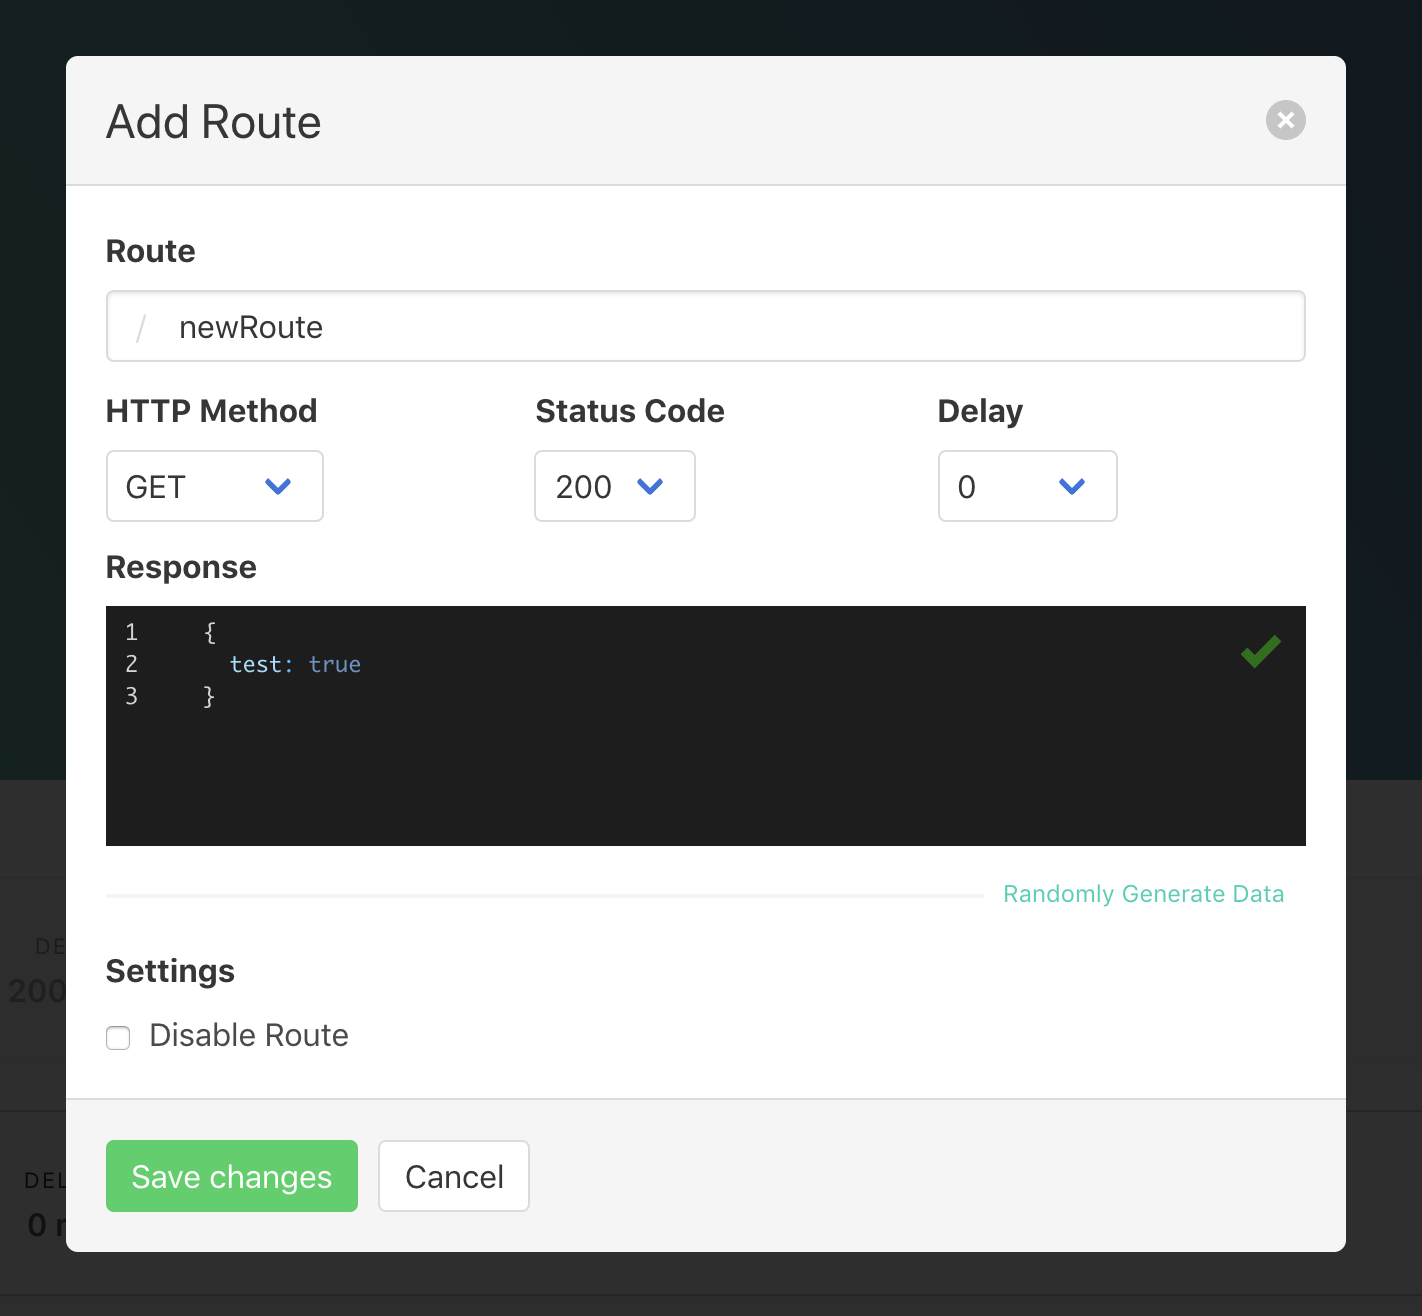
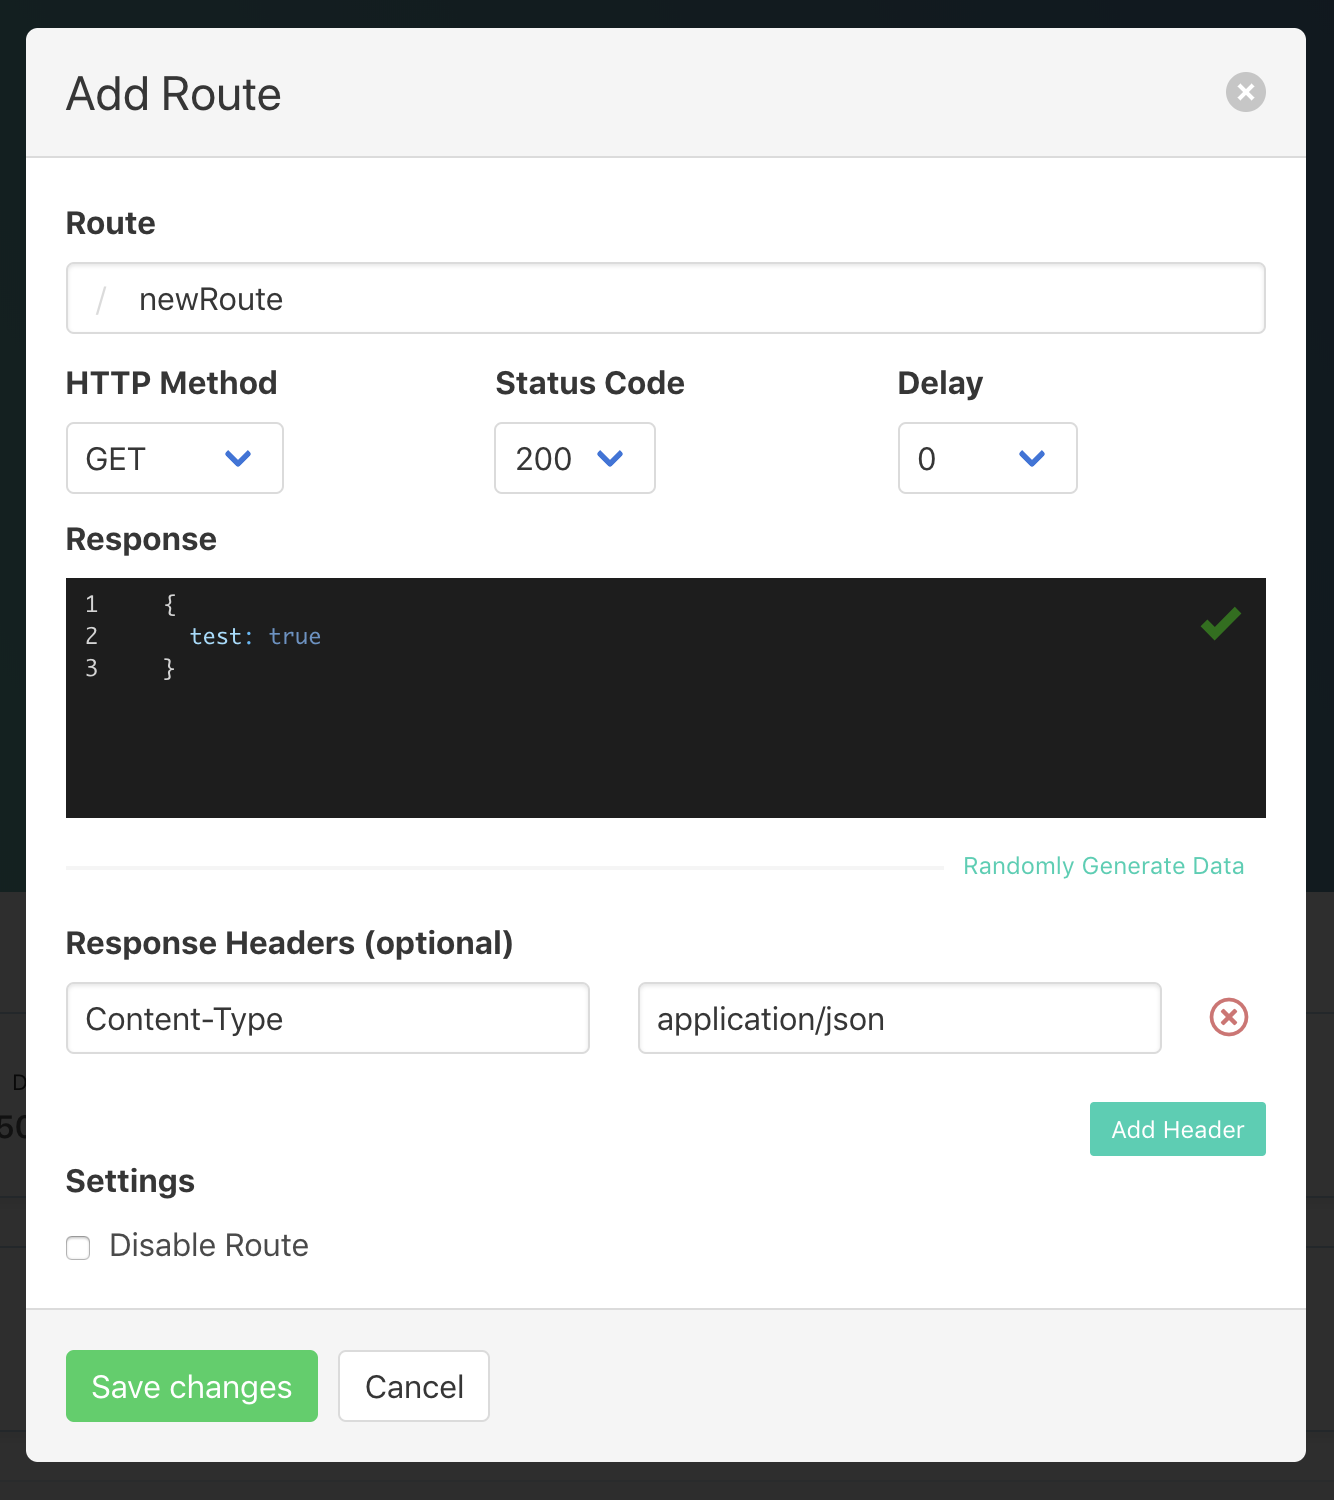
Updated docs to represent new features in 1.1.0

diff --git a/website/pages/en/index.js b/website/pages/en/index.js
@@ -245,7 +245,7 @@ class Index extends React.Component {
                   </a>
                 </div>
                 <div class="col center">
-                  <img src={imgUrl("/docs/mockit/add-route-2.png")} />
+                  <img src={imgUrl("/docs/routes/add-route.png")} />
                 </div>
               </div>
             </div>
@@ -260,7 +260,7 @@ class Index extends React.Component {
                   <p>You can manage responses, status codes, HTTP methods and even add delays to each end point you add.</p>
                   <p>The server is always listening for any changes you make. So any change you make in the UI will instantly be shown on your server.</p>
 
-                  <a class="learnmore" href="/docs/getting-started/routes">
+                  <a class="learnmore" href="/docs/getting-started/installation">
                     Learn more
                   </a>
                 </div>

diff --git a/docs/routes/route-features.md b/docs/routes/route-features.md
@@ -1,0 +1,46 @@
+---
+id: route-features
+title: Route Features
+---
+
+## Route name
+
+This is the path to your new route. You can set your route name by entering in the first input field.
+
+## HTTP Method
+
+The HTTP method of your route. Currently supports `GET`, `PUT`, `POST`, `PATCH` and `DELETE`.
+
+You can use the dropdown under **Http Method** to select which method you like.
+
+## Status Code
+
+This is the status code your route will return.
+
+You can use the dropdown under **Status Code** to select which code you like to return.
+
+## Delay
+
+This will set a delay on your response from the server.
+
+You can use the dropdown under **Delay** to select how much delay you would like in milliseconds.
+
+## Response
+
+This is the response your route will return. You should be able to add any JSON response here.
+
+You can use the text area under **Response** to set what payload you want to return for your route.
+
+## Response Headers
+
+You can add response headers to your route.
+
+Clicking the button `Add Header` will show you two inputs. The first one is the header itself and the second one is the headers value. _(For example, you can put `x-api-key` into the header field with `test` in the value field and the route will return this header)_
+
+## Disable Route
+
+You can disable a route at any time clicking the **Disable Route** checkbox.
+
+## Saving Route
+
+Clicking `Save changes` will save the changes to the configuration file and the server will be updated.

diff --git a/docs/routes/add-a-route.md b/docs/routes/add-a-route.md
@@ -1,0 +1,14 @@
+---
+id: add-a-route
+title: Adding a route
+---
+
+Click on the button "Add Route" to add a new route to server.
+
+You will be shown a modal dialog which allows you to configure your new route.
+
+![Adding a new route](/img/docs/routes/add-route.png "Adding a new route")
+
+As you can see in the photo above, you can edit various settings on your new route.
+
+If you would like to see what the differnt sections and features mean checkout the [route-features](route-features)

diff --git a/docs/routes/delete-a-route.md b/docs/routes/delete-a-route.md
@@ -1,0 +1,14 @@
+---
+id: delete-a-route
+title: Delete a route
+---
+
+If you want to delete a route, click `Delete` button seen on the dashboard.
+
+![Deleting a new route](/img/docs/routes/edit.png "Deleting a new route")
+
+This will show a configuration dialog.
+
+![Confirmation on deleting route](/img/docs/routes/delete-confirm.png "Confirmation on deleting route")
+
+If you click on the `Delete` button the route will be removed and the server will be updated to reflect the new change.

diff --git a/docs/routes/edit-a-route.md b/docs/routes/edit-a-route.md
@@ -1,0 +1,10 @@
+---
+id: edit-a-route
+title: Edit a route
+---
+
+If you want to edit a route, click the `Edit` button seen on the dashboard.
+
+![Editing a new route](/img/docs/routes/edit.png "Editing a new route")
+
+Clicking `Edit` will show the route model where you can edit anything you like on the route.
